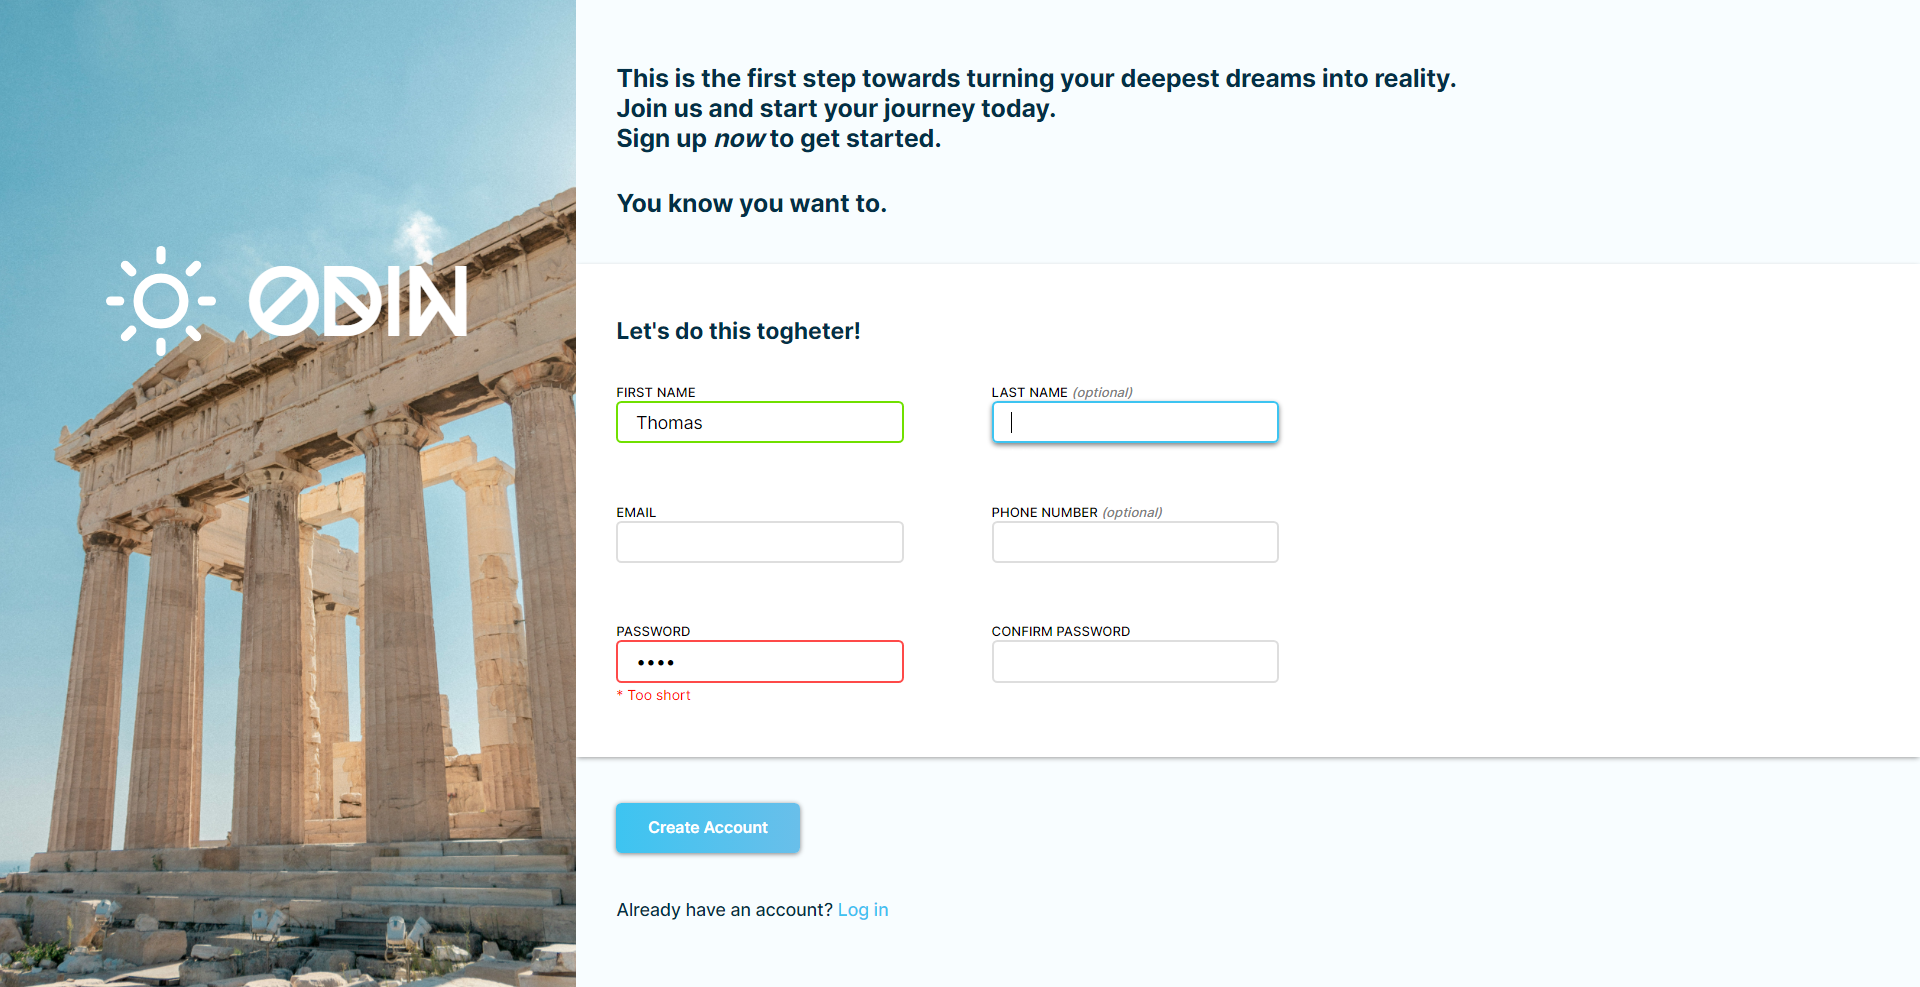
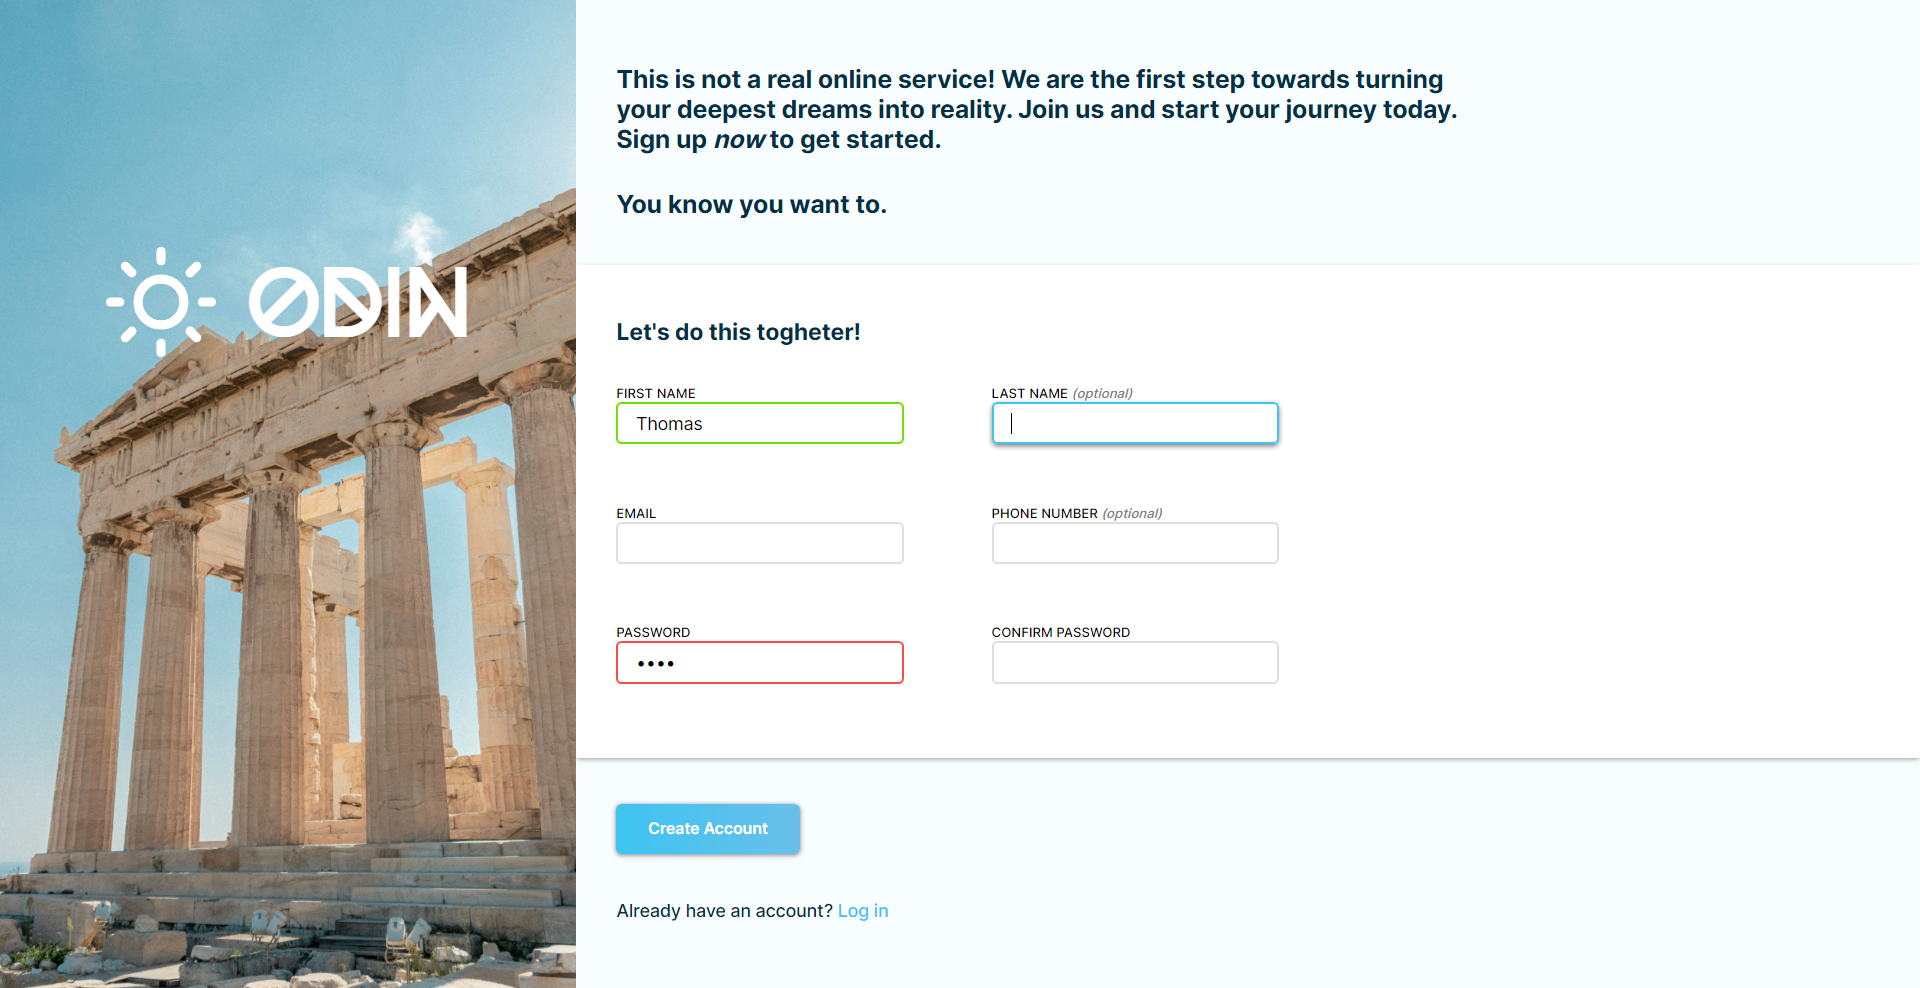
refactor: Remove copyright text on index and update preview image on README.md

diff --git a/css/style.css b/css/style.css
@@ -165,7 +165,7 @@ input[type="password"]:focus:invalid {
     border-color: #fe4a49;
 }
 
-input[type="password"]:not(:placeholder-shown):invalid + .short {
+input[type="password"]:focus:invalid + .short {
     color: red;
 }
 
@@ -214,32 +214,5 @@ footer {
 a {
     text-decoration: none;
     color: var(--light-blue);
-}
-
-#copyright {    
-    position: absolute;
-    bottom: 0;
-    left: 0;
-    gap: 1rem;
-    width: 100%;
-    padding: 10px;
-
-    display: flex;
-    align-items: center;
-    justify-content: center;
-    flex-wrap: wrap;
-    
-    font-size: 1rem;
-    color: white;
-    font-family: 'Inter';
-    font-weight: 500;
-}
-
-i {
-    transition: .2s ease-in-out;
-}
-
-i:hover {
-    transform: scale(1.2)
 }
 

diff --git a/index.html b/index.html
@@ -16,12 +16,6 @@
                 <img id="slogan-logo" src="assets/images/sun.svg" alt="White icon of the sun">
                 <span>Odin</span>
             </div>
-            <div id="copyright">
-                Copyright © 2024 thomasmfx
-                <a href="https://github.com/thomasmfx">
-                    <i class="fa-brands fa-github fa-lg" style="color: #ffffff;"></i>
-                </a>
-            </div>
         </div>
         <div id="right-side">
             <div id="hero">
